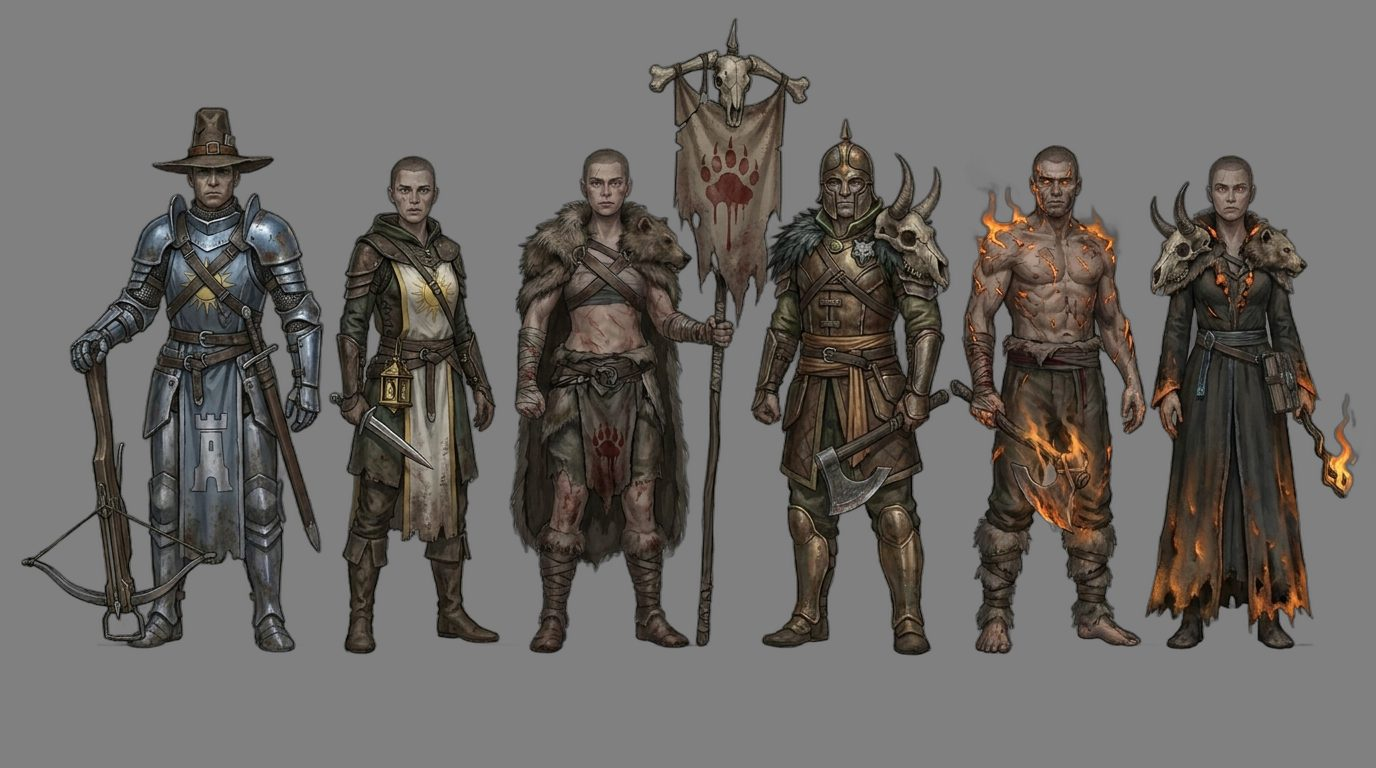
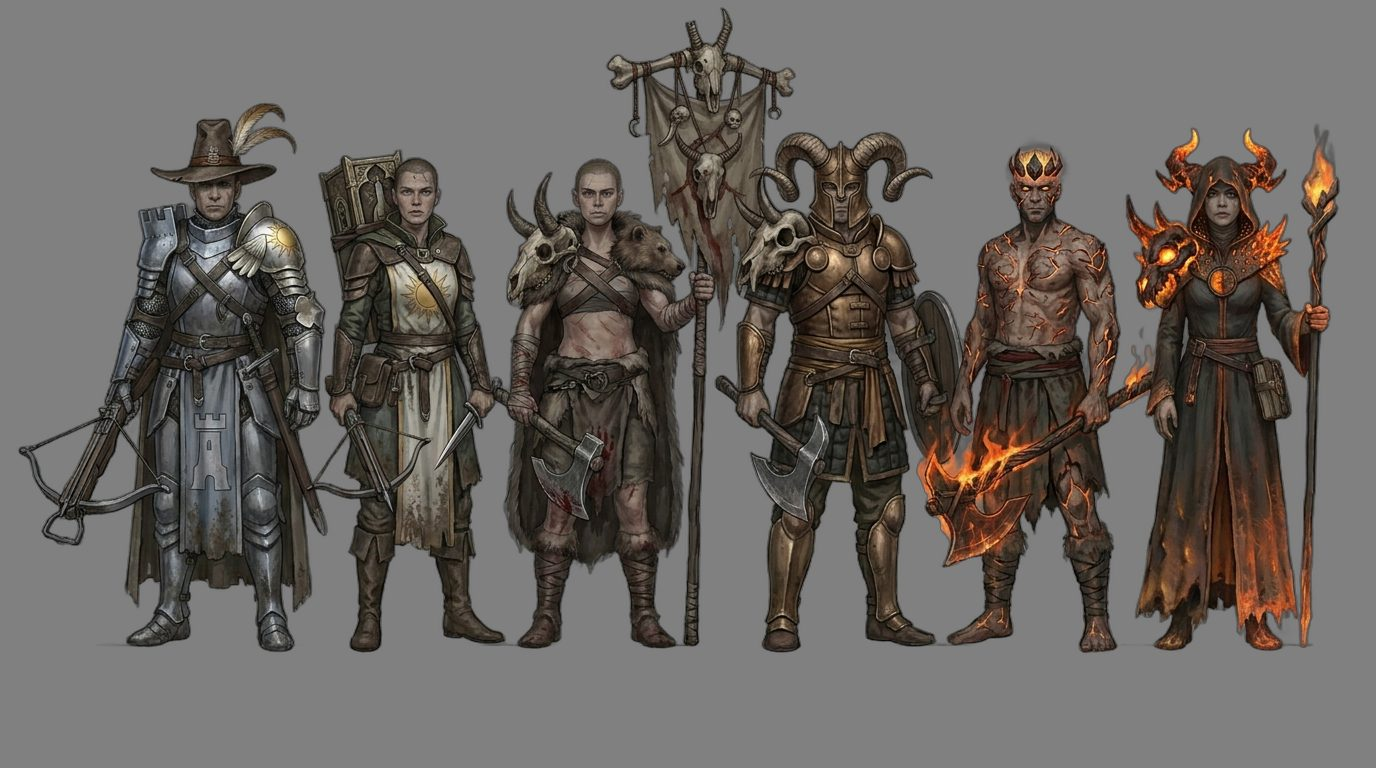
Heróis v4, Fase 1: correções de silhueta (Elementalista e 7 folhas de duplas)
Folha do Mago refeita (coroa de cristais do Elementalista) e as duplas que viravam bloco
a 85 px refeitas com a peça própria grande, saindo do contorno; Penitente e Chefe de Clã
corrigidos. 8 folhas, 72 créditos (Fase 1: 234). Prancha de silhuetas atualizada.

diff --git a/docs/arte/herois-v4/fase1/README.md b/docs/arte/herois-v4/fase1/README.md
@@ -9,7 +9,8 @@ Conceitos 2D gerados no Meshy (`nano-banana-pro`), com o corpo escolhido como re
 | Corpo (2 variações) | 2 text-to-image | 18 |
 | Rostos e cabelos, recruta, 4 classes com as evoluções | 6 image-to-image | 54 |
 | 28 duplas nas duas ordens | 10 image-to-image | 90 |
-| **Total** | 18 | **162** (orçamento da fase: ~220) |
+| Correções: folha do Mago e 7 folhas de duplas | 8 image-to-image | 72 |
+| **Total** | 26 | **234** (orçamento da fase: ~220) |
 
 ## Folhas
 
@@ -28,29 +29,33 @@ Conceitos 2D gerados no Meshy (`nano-banana-pro`), com o corpo escolhido como re
 
 ## Teste de silhueta (85 px, em cinza)
 
+Depois das correções (segunda rodada):
+
 | Nível | Resultado |
 |---|---|
 | Recruta | ✅ o "antes": silhueta lisa, sem nenhuma peça |
 | Classes | ✅ as 4 se distinguem: escudo e elmo; chifres e machado; chapéu e cajado; capuz |
-| Evoluções | ✅ Bastião (ameias, elmo de balde), Paladino (asas), Berserker (crânio de chifre), Senhor da Guerra (elmo de chifre), Assassino (capa em tiras), Patrulheiro (penas e arco). ⚠ **Elementalista e Arcanista** viram o mesmo capuz pontudo de manto: cristais e correntes somem a 85 px |
-| Duplas | ⚠ metade se lê pela peça grande (estandarte, chifres, chapéu de aba, capuz de lobo, capa de fumaça). Na outra metade, a peça própria é pequena e a figura vira um bloco de manto ou placa |
+| Evoluções | ✅ as 8 se distinguem. O Elementalista ganhou uma coroa de cristais e chamas acima da cabeça; o Arcanista ficou com capuz e correntes, que agora não se confunde com o chapéu do Mago nem com a coroa do Elementalista |
+| Duplas | ✅ cada figura tem uma peça grande saindo do contorno: asas de penas, penacho, coroa de cristais, disco de sol, lanterna, capuz branco em ponta, máscara de bico, chapéu de aba com penas, círculo de runas, cântaro nas costas, estandartes e chifres |
 
-## Problemas e correções propostas
+## O que foi corrigido
 
-| # | Onde | Problema | Correção |
+| # | Onde | Antes | Depois |
 |---|---|---|---|
-| 1 | Elementalista × Arcanista | mesma silhueta | Elementalista: **cristais flutuando acima dos ombros**, maiores que a cabeça. Arcanista: **capuz caído para a frente e correntes pendendo até o chão** |
-| 2 | Duplas que viram bloco | peça própria pequena | a peça de silhueta da dupla **30–50% maior** e saindo do contorno (para cima ou para os lados), como nos que passaram |
-| 3 | Penitente (Assassino → Paladino) | saiu um macacão branco liso | refazer: gibão de couro tingido de branco, capuz e uma asa de placa num ombro |
-| 4 | Espreitador | veio uma figura a mais (a do meio) | as válidas são a 1ª (capuz de lobo e arco) e a 3ª (capa de fumaça); a do meio é descartada |
-| 5 | Chefe de Clã (Senhor da Guerra → Berserker) | couro em vez de bronze | refazer com a couraça de bronze |
+| 1 | Elementalista × Arcanista | mesma silhueta | Elementalista com coroa de cristais e chamas acima da cabeça ([classe-mago.jpg](classe-mago.jpg)) |
+| 2 | Duplas que viravam bloco (folhas 2, 3, 4, 7, 8 e 9) | peça própria pequena | peça própria grande, saindo do contorno |
+| 3 | Penitente (Assassino → Paladino) | macacão branco liso | couro tingido de branco, capuz e uma asa de placa num ombro |
+| 5 | Chefe de Clã (Senhor da Guerra → Berserker) | couro | couraça de bronze, elmo de chifres grandes e crânio no ombro |
 
-Refazer 1, 2, 3 e 5 custa ~5 folhas (45 créditos), dentro do orçamento da fase.
+**Ficou como está:**
+- **Espreitador** ([duplas-10.jpg](duplas-10.jpg)): veio uma figura a mais. Valem a 1ª (capuz de lobo) e a 3ª (capa de fumaça).
+- **Incendiário** (Berserker → Elementalista): a pele em brasa se lê pela cor, não pela silhueta. A 85 px em cinza ele fica parecido com o Berserker; no jogo, o brilho do emissivo resolve.
+- **Campeão:** o estandarte de uma figura encosta na outra na folha; é só a composição da imagem.
 
 ## Portão da Fase 1
 
 - [ ] Corpo A aprovado como base.
 - [ ] Rostos e cabelos aprovados.
-- [ ] Recruta, as 4 classes e as 8 evoluções aprovadas (com a correção 1).
-- [ ] As 28 duplas aprovadas (com as correções 2 a 5).
-- [ ] Teste de silhueta refeito depois das correções.
+- [ ] Recruta, as 4 classes e as 8 evoluções aprovadas.
+- [ ] As 28 duplas aprovadas.
+- [x] Teste de silhueta refeito depois das correções.
